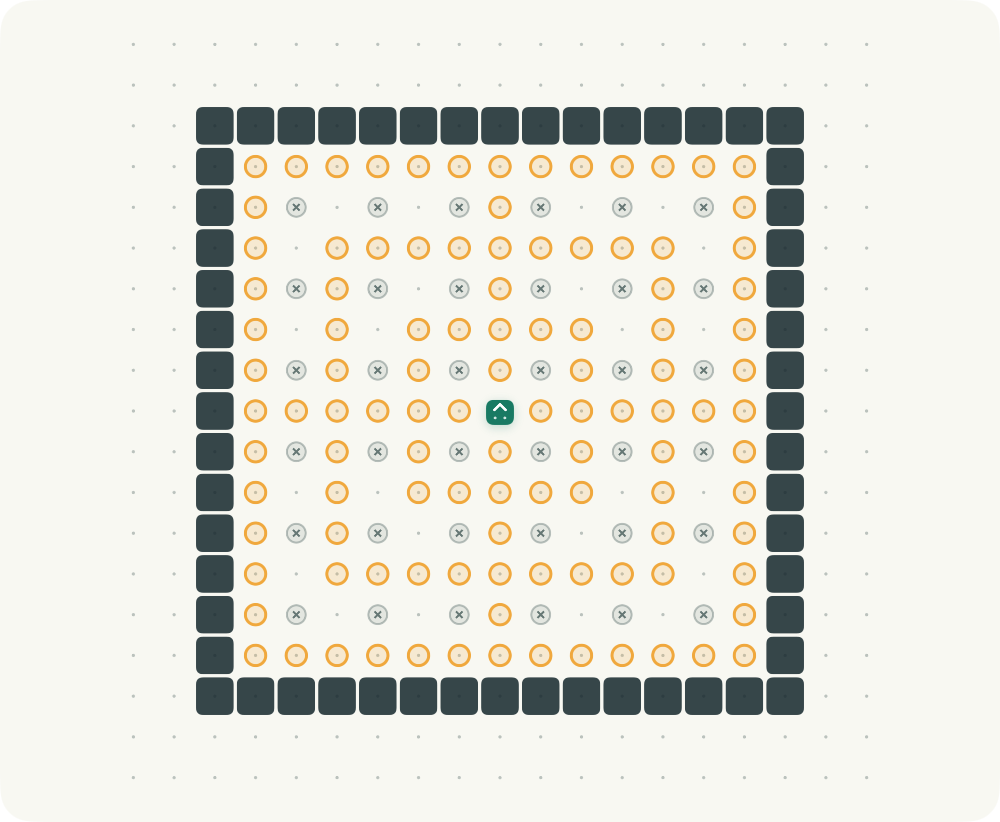
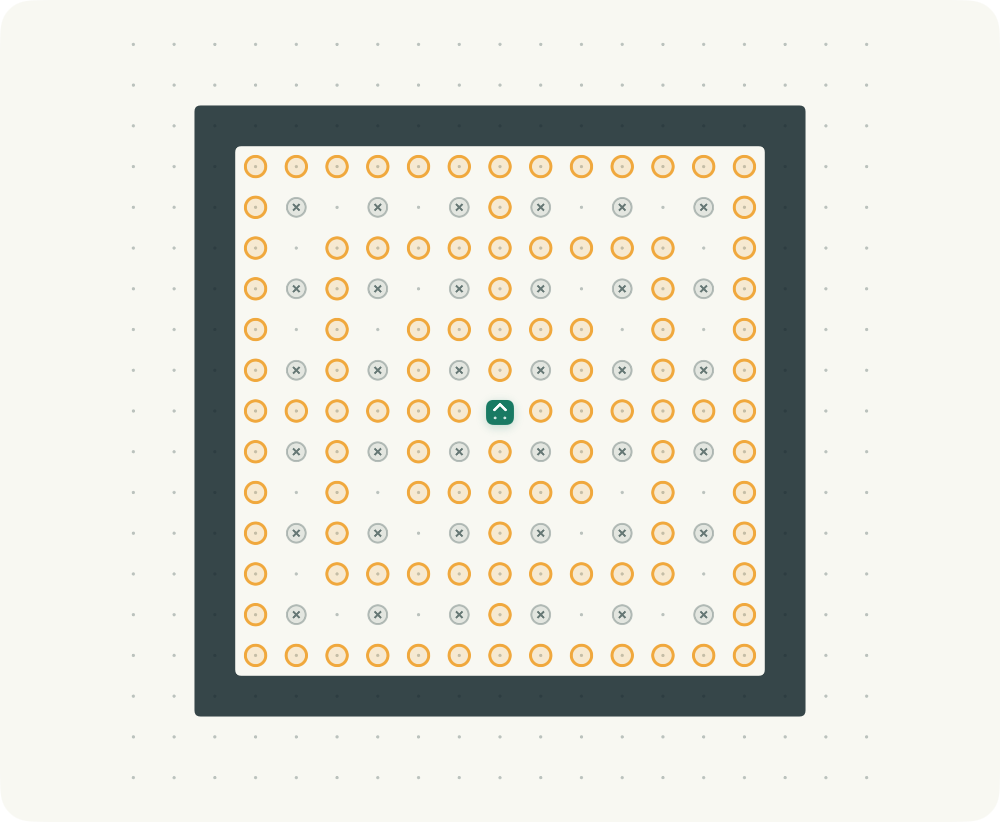
docs: publish HOJ audit and corrected localized app captures
Explain collision, branching, byte scoring and deliberate interpreter differences. Showcase continuous Modern and Classic walls with original-course screenshots and refresh the community gallery with correct trap rendering.

AI-model: GPT-6

diff --git a/docs/hoj-compatibility.md b/docs/hoj-compatibility.md
@@ -1,0 +1,99 @@
+# HOJ compatibility audit
+
+[简体中文](hoj-compatibility.zh-CN.md)
+
+Audited on 2026-10-08 against [quolc/hoj](https://github.com/quolc/hoj), pinned to
+[`f5d1ee4`](https://github.com/quolc/hoj/tree/f5d1ee4e3616c1b2cf79e70a0ccee267b5f09ea3),
+and the [published rules](http://herbert.tealang.info/rule.php).
+
+The repository describes itself as fragments of Herbert Online Judge. It contains a Ruby
+interpreter and sample judge; it does not contain the Flash UI, ranking server, or the
+complete original Microsoft/Wild Noodle application. Findings about these fragments do
+not establish the behavior of every deployed version. No reference code or assets were
+copied into this independently implemented MIT project.
+
+## Results
+
+| Behavior | Reference evidence | Native app |
+| --- | --- | --- |
+| Board encoding | `judge/judge.rb`: `x` blocks entry, `*` resets pressed targets | Fixed reversed decoding; community JSON preserved byte for byte. Original lesson generator now uses the same encoding. |
+| Initial heading | North | Matches |
+| Wall / board edge | `s` leaves position unchanged; execution continues | Matches; blocked commands count as a robot step and add no trail segment. |
+| Movement after a block | Subsequent turns and moves execute normally | Matches; tested with community #0001's corridor. |
+| Trap | All targets become unpressed; robot stays on the trap | Matches; trail remains visible, since it is a visualization of movement rather than target state. |
+| Revisit | A pressed target is not counted again; erased targets can be pressed again | Matches |
+| Completion | Stop immediately on the last target, before further instructions | Matches, including trailing infinite recursion |
+| Numeric branching | A nonpositive numeric argument skips that procedure call; execution returns to the caller | Matches for valid in-range arguments. There is no sensor branch or wall-triggered conditional in H. |
+| Instruction parameters | Substitute the caller's arguments, including nested calls; recurse and concatenate | Matches the differential fixtures, including growing command arguments and captured numbers. |
+| Code size | Letters count individually; a sequence of digits is one byte; syntax punctuation is free | Matches for normalized valid programs. Formatting differences below. |
+| Puzzle length | Rules require `bytes <= limit`; sample judge reads `@limit` but never uses it | Native app checks before execution. The fragment alone cannot prove the server omitted this check. |
+| Ranking | Rules rank by smaller byte count, then earlier submission for ties | Local shortest solution uses byte count only. No online ranking or composite points formula is implemented or present in this repository. |
+
+The earlier native decoder incorrectly treated community walls as traps and community
+traps as walls. Existing drafts and progress files are preserved. Old completions are not
+silently deleted or automatically replayed on startup; replay a saved solution to verify
+it under the corrected rules. Imported completion backups are replayed and rejected if
+invalid. The 30 original lessons retain their intended layouts and solutions after their
+symbols were corrected together with the decoder.
+
+## Deliberate differences and recommendations
+
+1. **Whitespace:** the Ruby parser rejects spaces, tabs and CRLF; raw `CountSrc` also
+   counts spaces and `\r`. Native code accepts common formatting and excludes whitespace
+   from byte counts, following the rules' definition in terms of letters and numbers.
+   For example, `a(X):s a(X-1)\r\na(12)` counts 8 bytes here, 10 in raw `CountSrc`.
+   Keeping formatting free is more suitable for a mobile editor and does not shorten
+   the effective program.
+2. **Numbers:** the rules prohibit magnitudes above 255, but the Ruby fragment accepts
+   `a(X):sa(X-1)\na(256)`. Native literals and evaluated arguments enforce ±255. Keep
+   this check. Unary signs such as `a(-1)` are accepted as a small native syntax extension;
+   Ruby requires a subtraction expression such as `a(0-1)` instead.
+3. **Typing:** Ruby infers parameter types before running and can reject an unused command
+   argument, such as `a(X):s\na(s)`. Native code accepts it and checks types when a parameter
+   is consumed. Errors in unused or skipped branches may consequently remain unreported.
+   Retain this predictable behavior for now; static type diagnostics would be a separate
+   editor improvement, rather than reproducing accidental inference failures.
+4. **Short-circuit diagnostics:** Ruby stops evaluating numeric arguments at the first
+   nonpositive argument. Native code resolves all arguments before deciding to skip.
+   This can report an out-of-range later argument even if an earlier argument is zero.
+   This does not change valid in-range program traces; it keeps the ±255 rule consistent.
+5. **Execution budget:** Ruby counts primitive instructions and procedure expansions
+   together toward 1,000,000 interpreter turns. Native UI steps count robot instructions;
+   the VM independently limits expansion to 1,000,000 (including lazy parameter frames).
+   These are not identical for parameter-heavy programs or at limit boundaries. Successful
+   completion takes precedence over later work in both. Do not compare UI step counts as
+   scores or claim identical timeout thresholds.
+6. **Memory:** Ruby checks the eagerly expanded character buffer against 2,000,000 characters,
+   while the rules describe 1,000,000 bytes. Native code uses a bounded lazy representation,
+   with additional source, nesting and stack guards. It keeps tail recursion cancellable
+   without freezing the UI. Preserve these protections, and make the differences explicit;
+   exact acceptance of pathological resource-limit programs is not promised.
+7. **Scoring:** keep shortest-code scoring and immediate completion. Do not add a movement
+   efficiency penalty: wall bumps and extra turns can be intentional parts of a compact
+   solution. A future online tie-break should use a server timestamp; local device time
+   is insufficient for a competitive leaderboard.
+
+Adjacent wall cells are now rendered as one outlined region in both board styles.
+Classic uses solid black square edges; Modern rounds the outline. Holes and separate
+diagonal wall groups remain distinct. This is a visual improvement only, without changing
+which cells block the robot. The reference repository contains no wall renderer to compare.
+
+## Reproduce
+
+`swift test` runs the 17 independently authored command/byte fixtures against the native VM,
+plus board, completion, trap and persistence integration tests. The optional Ruby check also
+replays the community #0001 corridor after a wall collision (using an enlarged test-only
+byte budget, leaving the archived four-byte limit unchanged). The same fixtures and all
+30 original lesson solutions were also replayed successfully against the pinned Ruby judge.
+
+Optional reference verification (requires Ruby and Git; runs a separate public checkout):
+
+```sh
+git clone https://github.com/quolc/hoj.git /tmp/hoj-reference
+git -C /tmp/hoj-reference checkout f5d1ee4e3616c1b2cf79e70a0ccee267b5f09ea3
+ruby scripts/check_hoj_reference.rb /tmp/hoj-reference
+```
+
+The script pins the commit and bounds interpreter turns. It does not download the reference
+or bundle it into either app. Passing these fixtures demonstrates the tested semantics,
+not exhaustive equivalence of every possible H program or the live judge.

diff --git a/README.md b/README.md
@@ -54,9 +54,9 @@ These examples are excluded from the App Store edition. Search their IDs in `Her
 
 <table>
   <tr>
-    <td align="center" width="33%"><a href="docs/screenshots/en/flower.png"><img src="docs/screenshots/en/flower-board.png" alt="Flower puzzle: four petals inside a square field of walls" width="280"></a></td>
+    <td align="center" width="33%"><a href="docs/screenshots/en/flower.png"><img src="docs/screenshots/en/flower-board.png" alt="Flower puzzle: four petals inside a square field of traps" width="280"></a></td>
     <td align="center" width="33%"><a href="docs/screenshots/en/shuriken.png"><img src="docs/screenshots/en/shuriken-board.png" alt="Shuriken puzzle: a four-armed rotational pattern" width="280"></a></td>
-    <td align="center" width="33%"><a href="docs/screenshots/en/butterfly.png"><img src="docs/screenshots/en/butterfly-board.png" alt="Butterfly puzzle: mirrored wings made from targets and walls" width="280"></a></td>
+    <td align="center" width="33%"><a href="docs/screenshots/en/butterfly.png"><img src="docs/screenshots/en/butterfly-board.png" alt="Butterfly puzzle: mirrored wings made from targets and traps" width="280"></a></td>
   </tr>
   <tr>
     <td align="center"><b>#0037 · Flower</b><br>nai · ≤ 20 bytes</td>
@@ -71,15 +71,15 @@ These examples are excluded from the App Store edition. Search their IDs in `Her
 
 <table>
   <tr>
-    <td align="center"><a href="docs/screenshots/en/flower.png"><img src="docs/screenshots/en/flower-board.png" width="380" alt="Modern Flower board with mint robot and amber targets"></a></td>
-    <td align="center"><a href="docs/screenshots/en/flower-classic.png"><img src="docs/screenshots/en/flower-classic-board.png" width="380" alt="Classic Flower board with black walls, white targets, red robot and blue trail"></a></td>
+    <td align="center"><a href="docs/screenshots/en/course/course-garden.png"><img src="docs/screenshots/en/course/course-garden-board.png" width="380" alt="Modern Clockwork garden board with mint robot and amber targets"></a></td>
+    <td align="center"><a href="docs/screenshots/en/course/course-garden-classic.png"><img src="docs/screenshots/en/course/course-garden-classic-board.png" width="380" alt="Classic Clockwork garden board with black walls, white targets, red robot and blue trail"></a></td>
   </tr>
   <tr><td align="center">Modern · default</td><td align="center">Classic · movement trail</td></tr>
 </table>
 
-*Both are actual app captures of #0037. Classic follows the original rules-page board
+*Both are actual app captures of original lesson L30. Classic follows the original rules-page board
 appearance. Its screenshot follows four instructions; only successful moves leave a trail.
-Use the sliders button above the board to change style, grid dots, and trail visibility.*
+Adjacent walls share a continuous outline in both styles. Use the sliders button above the board to change style, grid dots, and trail visibility.*
 
 <details>
 <summary>Explore the original course library</summary>
@@ -97,6 +97,7 @@ Use the sliders button above the board to change style, grid dots, and trail vis
   bookmark favorites and return to your last problem.
 - **Think in H.** Use `s`, `l`, and `r`, then build single-letter procedures, numeric and
   command parameters, and recursive programs. Original byte-counting rules are preserved.
+  See the [HOJ compatibility audit](docs/hoj-compatibility.md) for tested behavior and limits.
 - **Watch your idea unfold.** Run, pause, reset, or single-step. Change speed, zoom the board,
   and switch between the full 25 × 25 grid and its occupied region. See the robot’s complete
   movement trail, including at Turbo speed.

diff --git a/docs/hoj-compatibility.zh-CN.md b/docs/hoj-compatibility.zh-CN.md
@@ -1,0 +1,32 @@
+# HOJ 规则与实现核对
+
+2026-10-08 对照 [quolc/hoj 的固定提交 f5d1ee4](https://github.com/quolc/hoj/tree/f5d1ee4e3616c1b2cf79e70a0ccee267b5f09ea3)
+和[原站规则页](http://herbert.tealang.info/rule.php)。该仓库自称 HOJ 代码片段，包含 Ruby 解释器和示例判题器；没有 Flash UI、排行榜服务或完整的微软原作。
+本项目没有复制其中的源码或素材。
+
+| 检查项 | 结论 |
+| --- | --- |
+| 棋盘编码 | 修正本项目之前读反的符号：`x` 是墙，`*` 是陷阱。社区原始 JSON 不变；原创课程同步调整编码，布局与参考解不变。 |
+| 撞墙 / 边界 | 机器人原地停留，仍消耗一条指令，接着执行下一条；不会结束程序，也不会产生运动轨迹。 |
+| 分支 | H 没有撞墙传感器或 `if`；任意数值参数非正，跳过整次过程调用并返回调用者。有效数值范围内的行为一致。 |
+| 陷阱与回访 | 踩陷阱清空所有目标状态，机器人停在陷阱上；可以重新点亮目标，同一亮着的目标不会重复计数。 |
+| 通关 | 最后一个目标亮起时立即成功，不执行后面的陷阱路径或无限递归。 |
+| 字节与成绩 | 字母逐个计数，连续数字算一个数值，语法标点免费；按 byte 数比较最短解，步数不计分。原站同分按提交时间排序，本机没有在线排行榜。 |
+| 长度限制 | 原站规则要求代码不超过本关上限。Ruby 示例读取了上限但没用于判定；本项目在运行前检查。不能据此推断完整线上服务漏检。 |
+| 指令参数与递归 | 17 组独立编写的差分用例在两端给出相同指令序列与 byte 数；30 道原创题也全部通过参考判题器；社区第 1 题的撞墙继续执行用例同样通过（仅测试中放宽 byte 预算，原题上限不变）。 |
+| 连贯墙体 | 相邻墙格合并绘制外轮廓；Classic 黑色直角，Modern 圆角，保留围墙内的洞，对角相邻不额外连桥。参考仓库没有 UI 绘制代码可供比对。 |
+
+## 建议保留的改进
+
+- **接受空白和常见换行格式，空白不计 byte。** Ruby 原始计数器会把空格和 CR 算入，解析器也拒绝它们；手机输入、粘贴和排版不应影响有效程序长度。
+- **继续严格限制 ±255。** 规则禁止超范围数值，Ruby 片段却允许 `256`；本项目对常量和求值结果均检查。
+- **保留可取消的惰性执行与资源保护。** 原版直接展开字符串，存在内存膨胀风险；本项目使用有界展开、尾递归与分批执行。展开计数、内存权重和额外嵌套限制与 Ruby 不完全相同，不承诺极端程序的超时边界一致。
+- **保留 byte 排名，不增加撞墙或步数惩罚。** 简短的程序可能故意撞墙、重复转向；增加运动效率评分会改变谜题目标。
+
+另有明确的语法/诊断差异：本机支持 `a(-1)`，Ruby 需写成 `a(0-1)`；本机在参数实际使用时检查类型，Ruby 的静态推断会拒绝某些未使用参数；本机先求出全部参数再判断跳过，可能报告后续参数的越界错误。
+这些差异、资源阈值和复现方法详见 [完整英文审计](hoj-compatibility.md)。
+
+## 旧存档
+
+草稿和历史记录原样保留，不自动删除旧成绩。以前在错误的墙/陷阱解释下保存的社区题解，需要重新运行确认。
+导入备份时会用修正后的引擎重放完成记录，未通过的备份不会覆盖本机数据。

diff --git a/docs/screenshots/README.md b/docs/screenshots/README.md
@@ -1,7 +1,7 @@
 # App screenshots
 
 These PNGs are unmodified captures of the actual native SwiftUI Mac app, taken with
-XCTest on October 7–8, 2026. Community windows are 2480 × 1700 Retina pixels; course windows are 2480 × 2160 so the lesson and entire board fit. Board-only images
+XCTest on October 8, 2026. Community windows are 2480 × 1700 Retina pixels; course windows are 2480 × 2160 so the lesson and entire board fit. Board-only images
 come directly from the `game-board` accessibility element's screenshot, not a separate
 renderer, mockup, or image generator.
 
@@ -12,11 +12,12 @@ renderer, mockup, or image generator.
 | `shuriken.png`, `shuriken-board.png` | 0027 · Shuriken | snuke | 39 |
 | `butterfly.png`, `butterfly-board.png` | 0361 · Butterfly | nadsuki | 27 |
 
+The corrected community screenshots show `*` as circular traps, not solid walls.
 The Flower editor shows a valid starter program; it is not presented as a solution.
-The Classic capture follows four instructions (including blocked moves), with a blue
+The Classic capture follows four instructions (on the open path), with a blue
 trail for successful movement. Modern remains the default. Progress
 starts empty in a dedicated UI-test save file. The root PNGs show Simplified Chinese
-(October 7); `en/` contains the same nine captures with English UI (October 8), used by
+(October 8); `en/` contains the same nine captures with English UI (October 8), used by
 the English README. Original problem titles and author names are preserved.
 These are Mac screenshots, not evidence of iPhone/iPad runtime validation.
 
@@ -29,7 +30,7 @@ scripts/capture_screenshots.sh en store # Original-only English course
 scripts/capture_screenshots.sh zh-Hans store # Original-only Chinese course
 ```
 
-The test explicitly sets and checks the app language. It exports nine images per run,
+The test explicitly sets and checks the app language. It exports nine images per run for each edition,
 is opt-in, and is skipped during ordinary UI test runs. Review the images before committing;
 window size, system text rendering, and OS versions can change the output.
 If XCTest reports an image creation error on a secondary display, the optional
@@ -41,7 +42,7 @@ in the project.
 Original puzzle layouts retain their authors' rights and are excluded from our MIT grant.
 See [NOTICE.md](../../NOTICE.md).
 
-The `store` capture uses `HerbertAppStore` and exports seven actual native Mac images into
+The `store` capture uses `HerbertAppStore` and exports nine actual native Mac images into
 `en/course/` or `course/`: the original-only library and L19 Growing spiral, L29 Nested
-windows, L30 Clockwork garden (full screens and boards). These independently designed
+windows, L30 Clockwork garden (full screens and boards), plus L30 in Classic style with a four-step blue trail. Adjacent walls form a continuous frame. These independently designed
 original layouts and their captures use MIT. They are not iPhone/iPad App Store screenshots.

diff --git a/docs/verification.md b/docs/verification.md
@@ -2,6 +2,19 @@
 
 日期：2026-10-07–08（Asia/Shanghai）。环境：Apple Silicon Mac，Xcode 27.0，Swift 6.4。未使用第三方依赖。
 
+## HOJ 兼容性与连续墙体（10 月 8 日）
+
+- 对照 `quolc/hoj` 固定提交 `f5d1ee4e3616c1b2cf79e70a0ccee267b5f09ea3` 和实时取得的原站规则页；没有复制参考源码或素材。该仓库仅含解释器与示例判题片段，不包含完整排行榜或 Flash 客户端。
[1 lines of base64/hex data omitted]
+- 17 组独立差分用例的指令序列及 byte 数在 Swift 与 Ruby 两端一致；30 道原创题的参考解全部通过参考 Ruby 判题器，也通过真实 Swift 引擎的长度、陷阱与完成验证。
+- `scripts/check.sh`：37 项 Swift 测试、8 项 Python 测试和严格格式检查全部通过。墙轮廓测试覆盖全部 512 种 3×3 排列、边界、拐角、洞和对角分离。
+- `.build/hoj-store-functional.xcresult`：原创版完整 Mac UI 自动化通过，7 项功能用例通过、2 项截图用例按设计跳过。新增从实际棋盘截图采样的检查，Modern 和 Classic 在墙格接缝处与格内颜色一致。
+- `.build/hoj-community-final.xcresult`：开源版完整 Mac UI 自动化同样通过，7 项功能用例通过、2 项截图用例跳过；目录筛选为 1,799 / 30 / 1,769，包含接缝像素、语言、课程、草稿与设置持久化检查。
+- 开源与原创两种 scheme 的 iOS / Mac Release 构建全部通过；原创版两份实际 `.app` 通过资源隔离检查，仍为 30 题且无社区资源和参考答案。
+- 两种版本的中英文截图流程全部通过，共导出 36 张实际原生 Mac 截图；逐一检查修改后的完整窗口、棋盘局部、语言与遮挡情况。英文 README 的图片全部指向 `docs/screenshots/en/`。
+- 一次 Mac 测试进程在启用自动化模式时超时，未进入用例；重新启动测试后上述完整测试通过。首次像素检查采样到 Modern 墙下的淡网格点，改为在格内无网格点处取参照色后通过，没有放宽接缝颜色阈值。
+- 规则差异与旧存档说明见 [兼容性审计](hoj-compatibility.zh-CN.md)。没有进行 iOS 运行时验证、TestFlight 上传或 App Store 发布。
+
 ## 原创课程与发行版本（10 月 8 日）
 
 - 30 道独立设计的原创关卡，六章各五题，稳定 ID 10001–10030；名称、学习目标与两级提示支持中英日。

diff --git a/README.zh-CN.md b/README.zh-CN.md
@@ -35,9 +35,9 @@
 
 | 现代风格（默认） | Classic 经典风格与轨迹 |
 | --- | --- |
-| [![现代 Flower 棋盘](docs/screenshots/flower-board.png)](docs/screenshots/flower.png) | [![经典 Flower 棋盘与蓝色运动轨迹](docs/screenshots/flower-classic-board.png)](docs/screenshots/flower-classic.png) |
+| [![现代发条花园棋盘](docs/screenshots/course/course-garden-board.png)](docs/screenshots/course/course-garden.png) | [![经典发条花园棋盘与蓝色运动轨迹](docs/screenshots/course/course-garden-classic-board.png)](docs/screenshots/course/course-garden-classic.png) |
 
-两张均为实际 App 截图。经典风格参考原站规则页中的棋盘；示例执行了四条指令，只有实际移动才会留下轨迹。棋盘右上角的滑杆图标可设置风格、网格点和运动轨迹。新增功能目前位于 main，将纳入下一版本。
+两张均为原创 L30 的实际 App 截图，相邻墙格连接成完整围墙。经典风格参考原站规则页中的棋盘；示例执行了四条指令，只有实际移动才会留下轨迹。棋盘右上角的滑杆图标可设置风格、网格点和运动轨迹。新增功能目前位于 main，将纳入下一版本。
 
 ## 运行
 
@@ -78,7 +78,7 @@ xcodebuild -project Herbert.xcodeproj -scheme Herbert -destination 'platform=mac
 ## 已实现
 
 - 原版 H 语言：`s/l/r`、单字母过程、递归、最多 26 个参数、可为空的命令参数、数值参数、加减法、非正参数跳过调用、±255 数值限制。
-- 原版计数：每个字母 1 byte，每个数值常量 1 byte，标点与空白不计；每关按原站限制判定，步数不影响最短解记录。
+- 原版计数：每个字母 1 byte，每个数值常量 1 byte，标点与空白不计；每关按原站限制判定，步数不影响最短解记录；对照原解释器的发现与差异见 [兼容性审计](docs/hoj-compatibility.zh-CN.md)。
 - 25×25 棋盘：目标、墙、陷阱，踩陷阱清空已点亮目标，撞墙或边界留在原地，点亮全部目标立即通关。
 - 离线原版题库：保留编号、标题、作者、长度限制、原站最短记录快照、数据校验摘要与来源；数量和缺失项以 `docs/problem-import-manifest.json` 为准。
 - 六章各五题的原创课程：独立设计的布局、稳定 ID 10001–10030、显示编号 L01–L30、三语名称/学习目标/提示；参考解只在测试资源中，不进安装包。

diff --git a/docs/rules.md b/docs/rules.md
@@ -6,6 +6,7 @@
 
 - 机器人只能执行代码，不能直接通过方向按钮移动。
 - s 前进一格，l/r 原地旋转 90 度；墙和棋盘边界阻挡移动，指令仍消耗一步。
+- 公开棋盘编码：`x` 为墙，`*` 为陷阱，`o` 为目标，`u` 为朝上的机器人，`.` 为空格。
 - 25×25 棋盘；目标全部点亮时立即完成，陷阱清空之前点亮的全部目标。
 - 程序先声明过程，最后恰有一个执行行。过程名为小写单字母，参数名为大写单字母。
 - 命令参数可递归拼接，可为空；数值参数支持加减，绝对值至多 255；任一数值参数非正时跳过整次过程调用。
@@ -14,3 +15,5 @@
 - 原站声明最多 100 万执行步与 100 万 byte 展开长度。原生引擎另有避免阻塞 UI 的保护上限，具体差异在 README 记录。
 
 原站公布的是日文规则，且声明其实现与最初的 Herbert 存在差异。本项目优先依据这一页面及其公开关卡接口，不以其他复刻版本代替原版规则。
+
+对照 Ruby 解释器、分支、碰撞与计分的结果及刻意保留的差异，见 [兼容性审计](hoj-compatibility.zh-CN.md)。规则页规定排名先比较 byte 数，同分按提交时间先后；这里没有在线排行榜。

diff --git a/AGENTS.md b/AGENTS.md
@@ -20,3 +20,6 @@
 - `HerbertCore` bundles only the 30 MIT-original lessons; community JSON belongs in optional `HerbertCommunity`. `HerbertAppStore` must never link that module. Audit the final .app with `scripts/check_app_store_bundle.py`, including archives, rather than relying on UI filtering.
 - Original lessons use stable IDs 10001–10030 and display L01–L30. Generate lessons/translations/test references with `scripts/generate_original_problems.py`; reference solutions must stay outside application resources. Preserve community IDs and existing saves.
 - Personal signing belongs in ignored `Config/Local.xcconfig`, included by `Config/Signing.xcconfig`; project regeneration must not commit or erase a developer's local team selection.
+
+- Community board symbols are `x` = wall and `*` = trap; do not infer them from their appearance. The pinned HOJ interpreter/sample judge audit is in `docs/hoj-compatibility.md`. Keep normalized command/byte fixtures aligned using the optional `scripts/check_hoj_reference.rb` without vendoring the reference source.
+- Modern walls are translucent; pixel checks at cell joins should compare against a point away from the underlying grid dot. Trace wall contours with opposite winding for holes and separate diagonal components.

diff --git a/CHANGELOG.md b/CHANGELOG.md
@@ -17,8 +17,16 @@ save or API formats through documented migrations.
   accessibility descriptions, and interpreter/storage errors; English fallback.
 - Movement trails that retain every walked edge at all speeds, with bounded memory.
 - Classic board inspired by the original rules-page screenshot, alongside Modern (default).
+- Continuous wall outlines in Modern and Classic, preserving holes and diagonal separation.
 - Persistent board settings for style, movement trail, and per-cell grid dots.
 - Translation coverage/format checks and native UI tests for languages and preferences.
+
+### Fixed
+
+- Correct community board decoding: `x` is a wall and `*` is a trap. Original lessons
+  use the same encoding without changing their designed layouts.
+- Pinned HOJ compatibility audit, 17 differential language fixtures, and collision,
+  trap recovery, immediate completion and scoring regression tests.
 
 ## [0.1.0] - 2026-10-07
 
